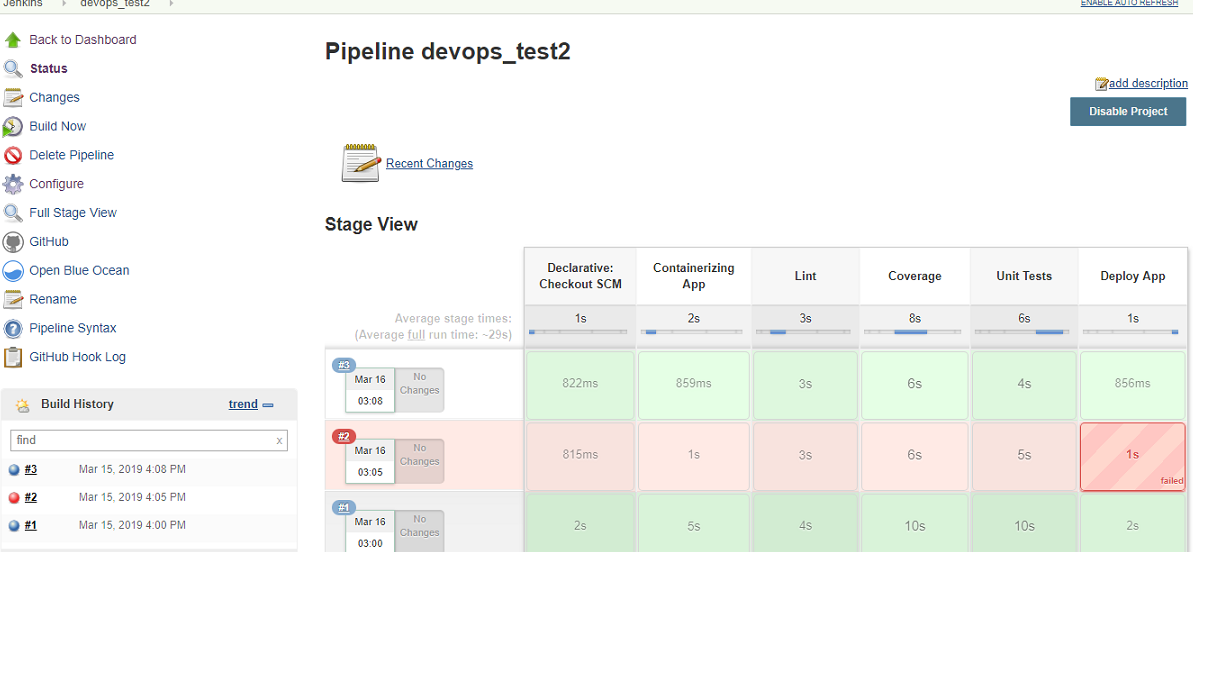
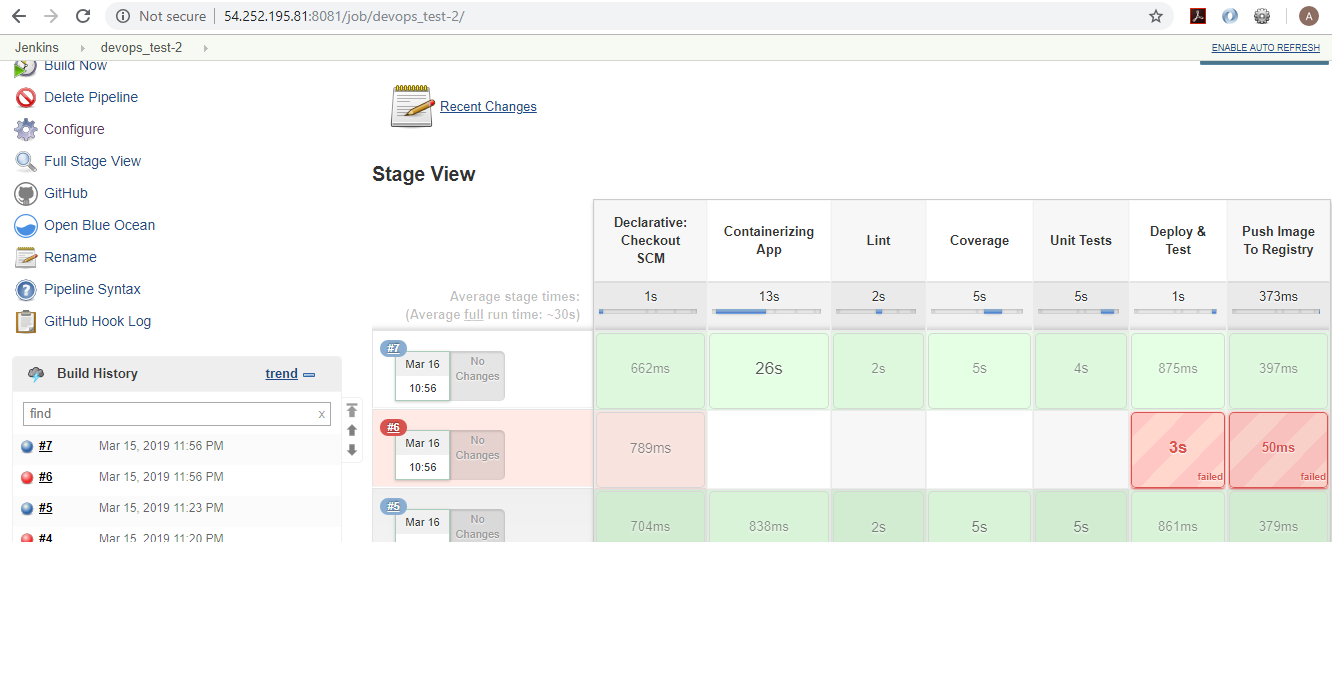
[SDE-C] updates README explaining application deployment, issues and strategy

diff --git a/README.md b/README.md
@@ -1,5 +1,39 @@
 # devops-test-2
 GitHub repo for devops-test-2 code.
 
-#CI Pipeline
+#CI Pipeline#
+
 ![Alt Showing CI Pipeline](CIPipeline.png?raw=true "CI Pipeline View")
+
+#Application Deployment#
+
+1. App docker image is created with all NPM dependencies included inside. It is an executable image which  starts express server and exposes /healthcheck API endpoint on port 3000.
+2. Docker Image is tested for linting by overriding the CMD instruction.
+3. Docker Image is tested for coverage and unit tests by overriding the CMD instruction.
+4. Deploy & Test creates a docker container from the image and exposes the API. When new image is created and deployed for test, API downtime happens and hence outages to service happens.
+
+#Container Orchestration Systems#
+
+Container orchestration provides the solution to deal with outages to live services.
+
+To minimize outage, Kubernetes provides the following disruption handling features:
+
+i.   Graceful termination
+
+ii.  Lifecycle hooks
+
+iii. PodDisruptionBudgets
+
+Kubernetes and Docker are both fundamentally different technologies but they work very well together, and both facilitate the management and deployment of containers in a distributed architecture.
+
+#Application Deployment Strategy#
+
+1. Push application docker images in container registry like gcr etc after API is tested for expected behaviour as described in CI pipeline.
+
+2. Create a kubernetes cluster in Google Cloud Platform and deploy the application in kubernetes pods. Deployment files are declarative files which mentions the pods replicas and specs.
+
+3. Expose the deployed pods by creating by kubernetes service.
+
+4. Once the new image is pushed in gcr, kubernetes deployment file is edited to reflect the new image tag so as do a rolling update to the service.
+
+5. New deployment is automatically applied to reflect the latest changes to the service without disrupting the live service.
